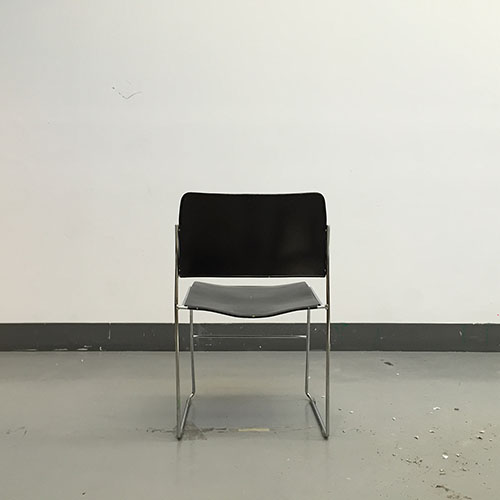
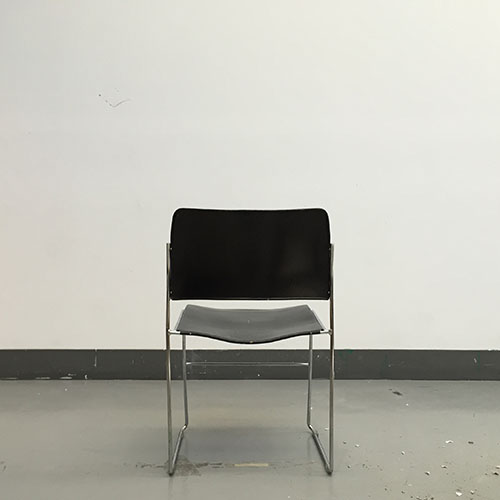
Uploading more future items

diff --git a/future/js/jquery.countdown.js b/future/js/jquery.countdown.js
@@ -1,0 +1,206 @@
+/*!
+ * The Final Countdown for jQuery v2.0.4 (http://hilios.github.io/jQuery.countdown/)
+ * Copyright (c) 2014 Edson Hilios
+ * 
+ * Permission is hereby granted, free of charge, to any person obtaining a copy of
+ * this software and associated documentation files (the "Software"), to deal in
+ * the Software without restriction, including without limitation the rights to
+ * use, copy, modify, merge, publish, distribute, sublicense, and/or sell copies of
+ * the Software, and to permit persons to whom the Software is furnished to do so,
+ * subject to the following conditions:
+ * 
+ * The above copyright notice and this permission notice shall be included in all
+ * copies or substantial portions of the Software.
+ * 
+ * THE SOFTWARE IS PROVIDED "AS IS", WITHOUT WARRANTY OF ANY KIND, EXPRESS OR
+ * IMPLIED, INCLUDING BUT NOT LIMITED TO THE WARRANTIES OF MERCHANTABILITY, FITNESS
+ * FOR A PARTICULAR PURPOSE AND NONINFRINGEMENT. IN NO EVENT SHALL THE AUTHORS OR
+ * COPYRIGHT HOLDERS BE LIABLE FOR ANY CLAIM, DAMAGES OR OTHER LIABILITY, WHETHER
+ * IN AN ACTION OF CONTRACT, TORT OR OTHERWISE, ARISING FROM, OUT OF OR IN
+ * CONNECTION WITH THE SOFTWARE OR THE USE OR OTHER DEALINGS IN THE SOFTWARE.
+ */
+(function(factory) {
+    "use strict";
+    if (typeof define === "function" && define.amd) {
+        define([ "jquery" ], factory);
+    } else {
+        factory(jQuery);
+    }
+})(function($) {
+    "use strict";
+    var PRECISION = 100;
+    var instances = [], matchers = [];
+    matchers.push(/^[0-9]*$/.source);
+    matchers.push(/([0-9]{1,2}\/){2}[0-9]{4}( [0-9]{1,2}(:[0-9]{2}){2})?/.source);
+    matchers.push(/[0-9]{4}([\/\-][0-9]{1,2}){2}( [0-9]{1,2}(:[0-9]{2}){2})?/.source);
+    matchers = new RegExp(matchers.join("|"));
+    function parseDateString(dateString) {
+        if (dateString instanceof Date) {
+            return dateString;
+        }
+        if (String(dateString).match(matchers)) {
+            if (String(dateString).match(/^[0-9]*$/)) {
+                dateString = Number(dateString);
+            }
+            if (String(dateString).match(/\-/)) {
+                dateString = String(dateString).replace(/\-/g, "/");
+            }
+            return new Date(dateString);
+        } else {
+            throw new Error("Couldn't cast `" + dateString + "` to a date object.");
+        }
+    }
+    var DIRECTIVE_KEY_MAP = {
+        Y: "years",
+        m: "months",
+        w: "weeks",
+        d: "days",
+        D: "totalDays",
+        H: "hours",
+        M: "minutes",
+        S: "seconds"
+    };
+    function strftime(offsetObject) {
+        return function(format) {
+            var directives = format.match(/%(-|!)?[A-Z]{1}(:[^;]+;)?/gi);
+            if (directives) {
+                for (var i = 0, len = directives.length; i < len; ++i) {
+                    var directive = directives[i].match(/%(-|!)?([a-zA-Z]{1})(:[^;]+;)?/), regexp = new RegExp(directive[0]), modifier = directive[1] || "", plural = directive[3] || "", value = null;
+                    directive = directive[2];
+                    if (DIRECTIVE_KEY_MAP.hasOwnProperty(directive)) {
+                        value = DIRECTIVE_KEY_MAP[directive];
+                        value = Number(offsetObject[value]);
+                    }
+                    if (value !== null) {
+                        if (modifier === "!") {
+                            value = pluralize(plural, value);
+                        }
+                        if (modifier === "") {
+                            if (value < 10) {
+                                value = "0" + value.toString();
+                            }
+                        }
+                        format = format.replace(regexp, value.toString());
+                    }
+                }
+            }
+            format = format.replace(/%%/, "%");
+            return format;
+        };
+    }
+    function pluralize(format, count) {
+        var plural = "s", singular = "";
+        if (format) {
+            format = format.replace(/(:|;|\s)/gi, "").split(/\,/);
+            if (format.length === 1) {
+                plural = format[0];
+            } else {
+                singular = format[0];
+                plural = format[1];
+            }
+        }
+        if (Math.abs(count) === 1) {
+            return singular;
+        } else {
+            return plural;
+        }
+    }
+    var Countdown = function(el, finalDate, callback) {
+        this.el = el;
+        this.$el = $(el);
+        this.interval = null;
+        this.offset = {};
+        this.instanceNumber = instances.length;
+        instances.push(this);
+        this.$el.data("countdown-instance", this.instanceNumber);
+        if (callback) {
+            this.$el.on("update.countdown", callback);
+            this.$el.on("stoped.countdown", callback);
+            this.$el.on("finish.countdown", callback);
+        }
+        this.setFinalDate(finalDate);
+        this.start();
+    };
+    $.extend(Countdown.prototype, {
+        start: function() {
+            if (this.interval !== null) {
+                clearInterval(this.interval);
+            }
+            var self = this;
+            this.update();
+            this.interval = setInterval(function() {
+                self.update.call(self);
+            }, PRECISION);
+        },
+        stop: function() {
+            clearInterval(this.interval);
+            this.interval = null;
+            this.dispatchEvent("stoped");
+        },
+        pause: function() {
+            this.stop.call(this);
+        },
+        resume: function() {
+            this.start.call(this);
+        },
+        remove: function() {
+            this.stop();
+            instances[this.instanceNumber] = null;
+            delete this.$el.data().countdownInstance;
+        },
+        setFinalDate: function(value) {
+            this.finalDate = parseDateString(value);
+        },
+        update: function() {
+            if (this.$el.closest("html").length === 0) {
+                this.remove();
+                return;
+            }
+            this.totalSecsLeft = this.finalDate.getTime() - new Date().getTime();
+            this.totalSecsLeft = Math.ceil(this.totalSecsLeft / 1e3);
+            this.totalSecsLeft = this.totalSecsLeft < 0 ? 0 : this.totalSecsLeft;
+            this.offset = {
+                seconds: this.totalSecsLeft % 60,
+                minutes: Math.floor(this.totalSecsLeft / 60) % 60,
+                hours: Math.floor(this.totalSecsLeft / 60 / 60) % 24,
+                days: Math.floor(this.totalSecsLeft / 60 / 60 / 24) % 7,
+                totalDays: Math.floor(this.totalSecsLeft / 60 / 60 / 24),
+                weeks: Math.floor(this.totalSecsLeft / 60 / 60 / 24 / 7),
+                months: Math.floor(this.totalSecsLeft / 60 / 60 / 24 / 30),
+                years: Math.floor(this.totalSecsLeft / 60 / 60 / 24 / 365)
+            };
+            if (this.totalSecsLeft === 0) {
+                this.stop();
+                this.dispatchEvent("finish");
+            } else {
+                this.dispatchEvent("update");
+            }
+        },
+        dispatchEvent: function(eventName) {
+            var event = $.Event(eventName + ".countdown");
+            event.finalDate = this.finalDate;
+            event.offset = $.extend({}, this.offset);
+            event.strftime = strftime(this.offset);
+            this.$el.trigger(event);
+        }
+    });
+    $.fn.countdown = function() {
+        var argumentsArray = Array.prototype.slice.call(arguments, 0);
+        return this.each(function() {
+            var instanceNumber = $(this).data("countdown-instance");
+            if (instanceNumber !== undefined) {
+                var instance = instances[instanceNumber], method = argumentsArray[0];
+                if (Countdown.prototype.hasOwnProperty(method)) {
+                    instance[method].apply(instance, argumentsArray.slice(1));
+                } else if (String(method).match(/^[$A-Z_][0-9A-Z_$]*$/i) === null) {
+                    instance.setFinalDate.call(instance, method);
+                    instance.start();
+                } else {
+                    $.error("Method %s does not exist on jQuery.countdown".replace(/\%s/gi, method));
+                }
+            } else {
+                new Countdown(this, argumentsArray[0], argumentsArray[1]);
+            }
+        });
+    };
+});

diff --git a/future/js/jquery.countdown.min.js b/future/js/jquery.countdown.min.js
@@ -1,0 +1,22 @@
+/*!
+ * The Final Countdown for jQuery v2.0.4 (http://hilios.github.io/jQuery.countdown/)
+ * Copyright (c) 2014 Edson Hilios
+ * 
+ * Permission is hereby granted, free of charge, to any person obtaining a copy of
+ * this software and associated documentation files (the "Software"), to deal in
+ * the Software without restriction, including without limitation the rights to
+ * use, copy, modify, merge, publish, distribute, sublicense, and/or sell copies of
+ * the Software, and to permit persons to whom the Software is furnished to do so,
+ * subject to the following conditions:
+ * 
+ * The above copyright notice and this permission notice shall be included in all
+ * copies or substantial portions of the Software.
+ * 
+ * THE SOFTWARE IS PROVIDED "AS IS", WITHOUT WARRANTY OF ANY KIND, EXPRESS OR
+ * IMPLIED, INCLUDING BUT NOT LIMITED TO THE WARRANTIES OF MERCHANTABILITY, FITNESS
+ * FOR A PARTICULAR PURPOSE AND NONINFRINGEMENT. IN NO EVENT SHALL THE AUTHORS OR
+ * COPYRIGHT HOLDERS BE LIABLE FOR ANY CLAIM, DAMAGES OR OTHER LIABILITY, WHETHER
+ * IN AN ACTION OF CONTRACT, TORT OR OTHERWISE, ARISING FROM, OUT OF OR IN
+ * CONNECTION WITH THE SOFTWARE OR THE USE OR OTHER DEALINGS IN THE SOFTWARE.
+ */
+!function(a){"use strict";"function"==typeof define&&define.amd?define(["jquery"],a):a(jQuery)}(function(a){"use strict";function b(a){if(a instanceof Date)return a;if(String(a).match(g))return String(a).match(/^[0-9]*$/)&&(a=Number(a)),String(a).match(/\-/)&&(a=String(a).replace(/\-/g,"/")),new Date(a);throw new Error("Couldn't cast `"+a+"` to a date object.")}function c(a){return function(b){var c=b.match(/%(-|!)?[A-Z]{1}(:[^;]+;)?/gi);if(c)for(var e=0,f=c.length;f>e;++e){var g=c[e].match(/%(-|!)?([a-zA-Z]{1})(:[^;]+;)?/),i=new RegExp(g[0]),j=g[1]||"",k=g[3]||"",l=null;g=g[2],h.hasOwnProperty(g)&&(l=h[g],l=Number(a[l])),null!==l&&("!"===j&&(l=d(k,l)),""===j&&10>l&&(l="0"+l.toString()),b=b.replace(i,l.toString()))}return b=b.replace(/%%/,"%")}}function d(a,b){var c="s",d="";return a&&(a=a.replace(/(:|;|\s)/gi,"").split(/\,/),1===a.length?c=a[0]:(d=a[0],c=a[1])),1===Math.abs(b)?d:c}var e=100,f=[],g=[];g.push(/^[0-9]*$/.source),g.push(/([0-9]{1,2}\/){2}[0-9]{4}( [0-9]{1,2}(:[0-9]{2}){2})?/.source),g.push(/[0-9]{4}([\/\-][0-9]{1,2}){2}( [0-9]{1,2}(:[0-9]{2}){2})?/.source),g=new RegExp(g.join("|"));var h={Y:"years",m:"months",w:"weeks",d:"days",D:"totalDays",H:"hours",M:"minutes",S:"seconds"},i=function(b,c,d){this.el=b,this.$el=a(b),this.interval=null,this.offset={},this.instanceNumber=f.length,f.push(this),this.$el.data("countdown-instance",this.instanceNumber),d&&(this.$el.on("update.countdown",d),this.$el.on("stoped.countdown",d),this.$el.on("finish.countdown",d)),this.setFinalDate(c),this.start()};a.extend(i.prototype,{start:function(){null!==this.interval&&clearInterval(this.interval);var a=this;this.update(),this.interval=setInterval(function(){a.update.call(a)},e)},stop:function(){clearInterval(this.interval),this.interval=null,this.dispatchEvent("stoped")},pause:function(){this.stop.call(this)},resume:function(){this.start.call(this)},remove:function(){this.stop(),f[this.instanceNumber]=null,delete this.$el.data().countdownInstance},setFinalDate:function(a){this.finalDate=b(a)},update:function(){return 0===this.$el.closest("html").length?void this.remove():(this.totalSecsLeft=this.finalDate.getTime()-(new Date).getTime(),this.totalSecsLeft=Math.ceil(this.totalSecsLeft/1e3),this.totalSecsLeft=this.totalSecsLeft<0?0:this.totalSecsLeft,this.offset={seconds:this.totalSecsLeft%60,minutes:Math.floor(this.totalSecsLeft/60)%60,hours:Math.floor(this.totalSecsLeft/60/60)%24,days:Math.floor(this.totalSecsLeft/60/60/24)%7,totalDays:Math.floor(this.totalSecsLeft/60/60/24),weeks:Math.floor(this.totalSecsLeft/60/60/24/7),months:Math.floor(this.totalSecsLeft/60/60/24/30),years:Math.floor(this.totalSecsLeft/60/60/24/365)},void(0===this.totalSecsLeft?(this.stop(),this.dispatchEvent("finish")):this.dispatchEvent("update")))},dispatchEvent:function(b){var d=a.Event(b+".countdown");d.finalDate=this.finalDate,d.offset=a.extend({},this.offset),d.strftime=c(this.offset),this.$el.trigger(d)}}),a.fn.countdown=function(){var b=Array.prototype.slice.call(arguments,0);return this.each(function(){var c=a(this).data("countdown-instance");if(void 0!==c){var d=f[c],e=b[0];i.prototype.hasOwnProperty(e)?d[e].apply(d,b.slice(1)):null===String(e).match(/^[$A-Z_][0-9A-Z_$]*$/i)?(d.setFinalDate.call(d,e),d.start()):a.error("Method %s does not exist on jQuery.countdown".replace(/\%s/gi,e))}else new i(this,b[0],b[1])})}});

diff --git a/future/style.css b/future/style.css
@@ -55,6 +55,15 @@ p {
 	z-index: -10;
 }
 
+/*.centerer {
+	max-width: 100%;
+	position: fixed;
+	top: 50%;
+	left: 50%;
+	transform: translate(-50%, -50%);
+	z-index: 10;
+}*/
+
 .textcolumn {
 	width: 500px;
 	max-width: 100%;
@@ -81,6 +90,16 @@ p {
 
 .button {
 	display: inline;
+}
+
+#diagram {
+	width: 500px;
+	max-width: 100%;
+	position: fixed;
+    z-index: -1;
+    -webkit-animation:spin2 30s linear infinite;
+    -moz-animation:spin2 30s linear infinite;
+    animation:spin2 30s linear infinite;
 }
 
 #mandala {
@@ -126,9 +145,18 @@ p {
 
 }
 
-@media screen and (max-width: 480px) {
+@media screen and (max-width: 500px) {
      #title {
-		font-size: 1em;
+		font-size: .5em;
+		transform: rotate(0);
+		text-align: center;
+		margin: 1em auto;
+		position: relative;
+	}
+
+	#diagram {
+		position: relative;
+		margin: 0 5%;
 	}
 
     .textcolumn {
@@ -141,31 +169,29 @@ p {
     	top: 0; left: 0;
     }
 
-    #title {
-    	display: none;
-    }
-
     .button {
-    /*	display: block;
-    	margin: 0;
-    	padding: 0;*/
+	   max-width: 100%;
+	   margin: 0 auto;
     }
 
     #spinner {
     	display: inline;
     	position: relative;
-    	margin: none;
+    	margin: 0 auto;
     	width: 200px;
     	height: 200px;
-    	top: 0; bottom: 0; left: 0; right: 0;
     }
 
     #mandala {
     	display: inline;
     	position: relative;
-    	margin: none;
+    	margin: 0 auto;
     	width: 200px;
     	height: 200px;
+    }
+
+    #chair {
+    	max-width: 100%;
     }
   }
 

diff --git a/future/explanation.html b/future/explanation.html
@@ -9,7 +9,8 @@
 
 <body>
 	<div id="title">Enlightenment Today?</div>
-	<a href="index.html"><img src="mandala2.svg" class="button" id="spinner"></a>
+	<a href="index.html"><img src="mandala3.svg" class="button" id="mandala"></a>
+	<a href="diagram.html"><img src="wheel.png" class="button" id="spinner"></a>
 	<img src="empty_chair.jpg" class="chair">
 	<div class="textcolumn" id="bigtext">
 		<p>The Buddha achieved enlightenment after sitting beneath the Bodhi Tree for forty-nine days. Today, perhaps, there is no need for our physical bodies to sit.</p>

diff --git a/future/meditator.html b/future/meditator.html
@@ -5,12 +5,12 @@
 	<meta name="viewport" content="width=device-width, initial-scale=1, maximum-scale=1">
 	<link rel="stylesheet" href="style.css">
 	<title>Enlightenment Now</title>
-</head>
+	</head>
 
 <body>
-	<div id="title">Forty-Eight Days Remain</div>
+	<div id="title"><span id="countdown"></span> days remain</div>
 	<a href="explanation.html"><img src="how.png" id="spinner"></a>
 	<img src="mandala.svg" id="mandala">
-	<img src="square-vid3.gif" class="chair">
+	<img src="square-vid4.gif" class="chair">
 </body>
 </html>

diff --git a/future/diagram.html b/future/diagram.html
@@ -1,0 +1,16 @@
+<!DOCTYPE html>
+<html>
+<head>
+	<meta charset="utf-8">
+	<meta name="viewport" content="width=device-width, initial-scale=1, maximum-scale=1">
+	<link rel="stylesheet" href="style.css">
+	<title>Enlightenment How</title>
+</head>
+
+<body>
+	<div id="title">Enlightenment How?</div>
+	<div class="centerer"><img src="diagram.png" id="diagram"></div>
+	<a href="index.html"><img src="mandala3.svg" class="button" id="mandala"></a>
+	<img src="empty_chair.jpg" class="chair">
+</body>
+</html>

diff --git a/future/index.html b/future/index.html
@@ -10,7 +10,7 @@
 <body>
 	<div id="title">Enlightenment Today?</div>
 	<a href="explanation.html"><img src="how.png" id="spinner"></a>
-	<img src="mandala3.svg" id="mandala">
+	<img src="mandala.png" id="mandala">
 	<img src="empty_chair.jpg" class="chair">
 </body>
 </html>
